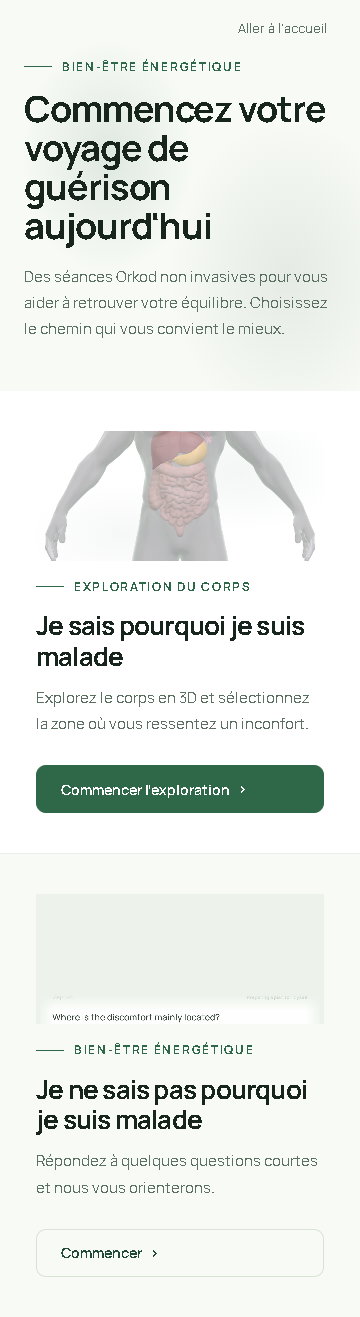
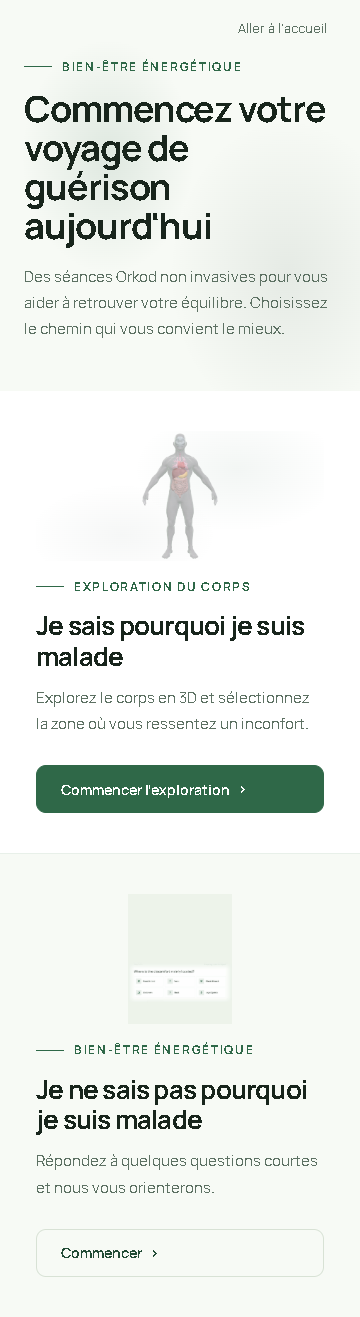
docs: final mobile start preview fix — full figure visible via object-fit contain

Changed region(s): [[0.1222, 0.3113, 0.8861, 0.4358]]

diff --git a/orkod-visual-overhaul/contact-sheet.html b/orkod-visual-overhaul/contact-sheet.html
@@ -93,7 +93,7 @@
   <div class="contact-item">
     <img src="start-mobile.png" alt="Start page mobile">
     <div class="label">/start — Mobile 390×844</div>
-    <div class="desc">Stacked choice cards, anatomical preview visible.</div>
+    <div class="desc">Mobile 390×844 — stacked cards, full anatomical preview visible (object-fit: contain).</div>
   </div>
   <div class="contact-item">
     <img src="start-mobile-narrow.png" alt="Start page narrow mobile">

diff --git a/orkod-visual-overhaul/index.md b/orkod-visual-overhaul/index.md
@@ -16,8 +16,8 @@ All images hosted at: https://raw.githubusercontent.com/rezoroyone-dev/orkod-rev
 | Screenshot | Description | Direct URL |
 |------------|-------------|------------|
 | start-tablet.png | `/start` tablet 768×1024 — stacked layout | https://raw.githubusercontent.com/rezoroyone-dev/orkod-review/visual-review-final/orkod-visual-overhaul/start-tablet.png |
-| start-mobile.png | `/start` mobile 390×844 — stacked cards, anatomical preview | https://raw.githubusercontent.com/rezoroyone-dev/orkod-review/visual-review-final/orkod-visual-overhaul/start-mobile.png |
-| start-mobile-narrow.png | `/start` mobile 360×800 — no horizontal overflow | https://raw.githubusercontent.com/rezoroyone-dev/orkod-review/visual-review-final/orkod-visual-overhaul/start-mobile-narrow.png |
+| start-mobile.png | `/start` mobile 390×844 — stacked cards, full anatomical preview (object-fit: contain) | https://raw.githubusercontent.com/rezoroyone-dev/orkod-review/visual-review-final/orkod-visual-overhaul/start-mobile.png |
+| start-mobile-narrow.png | `/start` mobile 360×800 — no horizontal overflow, full figure visible | https://raw.githubusercontent.com/rezoroyone-dev/orkod-review/visual-review-final/orkod-visual-overhaul/start-mobile-narrow.png |
 
 ## /home — Chapter Transitions (desktop 1440x900)
 
